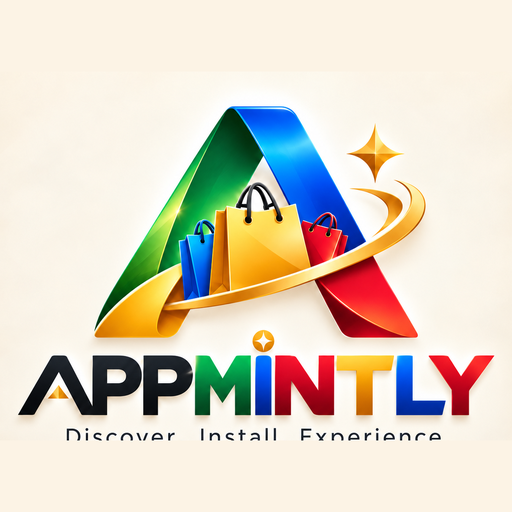
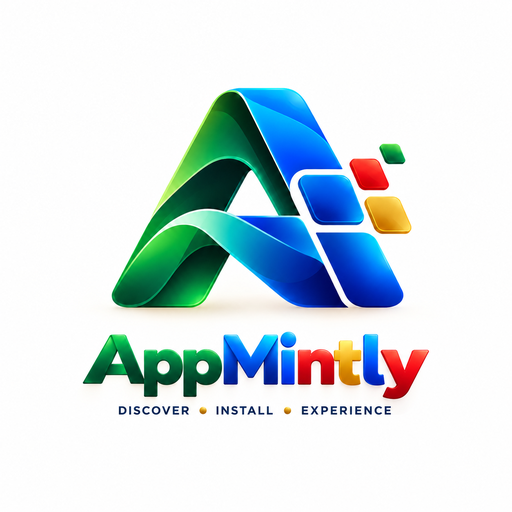
branding: official AppMintly artwork Phase 4 — complete lockup in every asset
Single source of truth: the supplied official artwork (1254x1254 PNG:
A-symbol with green/blue ribbon strokes + floating blue/red/amber
pixels, AppMintly wordmark, DISCOVER - INSTALL - EXPERIENCE tagline
with gold separators on the artwork's white background). Every asset is
a deterministic whole-image LANCZOS derivation — no crop, no recolor,
no emblem-only extraction, no hand-drawn substitute.

- brand/appmintly-logo-official.png: master, byte-identical to upload
- brand/appmintly-icon{,-192,-512,-1024}.png + logo-full (900) +
  logo-compact (900x851, whole artwork at native aspect): complete
  artwork replaces the old emblem-only marks
- icon-512 / icon-192 / icon-32 / icon-16 / apple-touch-icon (180):
  complete artwork; icon-512.png is the APK launcher build input
  (ICON_URL default unchanged) AND the catalog icon URL — content-only
  replacement, no record change
- favicon.ico: multi-resolution (16/32/48) from the complete artwork
- NEW public/icon-512-maskable.png: complete composition
  diagonal-fitted into the 66/108 safe circle (half-diagonal 155<=156)
  and wired as the manifest's dedicated 'maskable' entry
- AppMintlyLogo.tsx: wordmark label colors re-sampled from the
  artwork (App #028B3E green, Mintly #0047B7 blue); mark assets now
  render the complete lockup (no symbol-only contexts remain)
- lib/brand-assets.ts: appmintly registry pins refreshed + master,
  icon-512 and maskable entries added; pdfminifly/studyria pins untouched
[…]

diff --git a/tests/appmintly-brand-assets.test.ts b/tests/appmintly-brand-assets.test.ts
@@ -1,0 +1,122 @@
+/**
+ * AppMintly Phase 4 — official brand asset regression pins.
+ *
+ * Locks every replaced AppMintly branding asset to the exact bytes derived
+ * from the supplied official master artwork (complete composition: A-symbol
+ * with green/blue ribbon strokes + floating blue/red/amber pixels,
+ * "AppMintly" wordmark — App in green #028B3E, Mintly in blue #0047B7 —
+ * and the DISCOVER - INSTALL - EXPERIENCE tagline with gold separators, on
+ * the artwork's white background). Any revert to the old emblem-only
+ * artwork, or any accidental re-crop/recolor, changes a sha256 and fails
+ * this suite.
+ */
+import { readFileSync } from 'node:fs';
+import { createHash } from 'node:crypto';
+import { describe, expect, it } from 'vitest';
+import { REPO_BRAND_ASSETS } from '../lib/brand-assets';
+
+const sha = (p: string) => createHash('sha256').update(readFileSync(p)).digest('hex');
+const size = (p: string) => readFileSync(p).length;
+
+/** Exact sha256 of each Phase 4 replacement (whole-image derivatives). */
+const PINS: Record<string, string> = {
+  'public/brand/appmintly-logo-official.png':
[1 lines of base64/hex data omitted]
+  'public/brand/appmintly-icon.png':
[1 lines of base64/hex data omitted]
+  'public/brand/appmintly-icon-1024.png':
[1 lines of base64/hex data omitted]
+  'public/brand/appmintly-icon-512.png':
[1 lines of base64/hex data omitted]
+  'public/brand/appmintly-icon-192.png':
[1 lines of base64/hex data omitted]
+  'public/brand/appmintly-logo-full.png':
[1 lines of base64/hex data omitted]
+  'public/brand/appmintly-logo-compact.png':
[1 lines of base64/hex data omitted]
+  'public/icon-512.png':
[1 lines of base64/hex data omitted]
+  'public/icon-512-maskable.png':
[1 lines of base64/hex data omitted]
+  'public/icon-192.png':
[1 lines of base64/hex data omitted]
+  'public/icon-32.png':
[1 lines of base64/hex data omitted]
+  'public/icon-16.png':
[1 lines of base64/hex data omitted]
+  'public/apple-touch-icon.png':
[1 lines of base64/hex data omitted]
+  'public/favicon.ico':
[1 lines of base64/hex data omitted]
+};
+
+/** PNG IHDR dimensions without a decoder (width/height at bytes 16..24). */
+const pngSize = (p: string): [number, number] => {
+  const b = readFileSync(p);
+  expect(b.subarray(12, 16).toString('ascii')).toBe('IHDR');
+  return [b.readUInt32BE(16), b.readUInt32BE(20)];
+};
+
+describe('AppMintly official brand assets (Phase 4)', () => {
+  it('every Phase 4 replacement matches its pinned official-artwork bytes', () => {
+    for (const [f, pin] of Object.entries(PINS)) {
+      expect(sha(f), `pin for ${f}`).toBe(pin);
+    }
+  });
+
+  it('the master artwork is byte-identical to the supplied official upload', () => {
+    expect(sha('public/brand/appmintly-logo-official.png')).toBe(PINS['public/brand/appmintly-logo-official.png']);
+    expect(size('public/brand/appmintly-logo-official.png')).toBeGreaterThan(1_000_000);
+    expect(pngSize('public/brand/appmintly-logo-official.png')).toEqual([1254, 1254]);
+  });
+
+  it('square derivatives keep the whole 1:1 artwork (no emblem-only re-crop)', () => {
+    for (const [f, s] of [
+      ['public/brand/appmintly-icon.png', 700],
+      ['public/brand/appmintly-icon-1024.png', 1024],
+      ['public/brand/appmintly-icon-512.png', 512],
+      ['public/brand/appmintly-icon-192.png', 192],
+      ['public/brand/appmintly-logo-full.png', 900],
+      ['public/icon-512.png', 512],
+      ['public/icon-192.png', 192],
+      ['public/icon-32.png', 32],
+      ['public/icon-16.png', 16],
+      ['public/apple-touch-icon.png', 180],
+    ] as const) {
+      expect(pngSize(f), `${f} dimensions`).toEqual([s, s]);
+    }
+    // identical source means identical bytes: icon-512 and the /brand/ 512
+    // derivative must be the same file content (whole-image LANCZOS resize).
+    expect(sha('public/icon-512.png')).toBe(PINS['public/brand/appmintly-icon-512.png']);
+  });
+
+  it('maskable icon is a dedicated safe-zone asset wired into the manifest', () => {
+    const manifest = readFileSync('app/manifest.ts', 'utf-8');
+    expect(manifest).toContain('icon-512-maskable.png');
+    expect(manifest).toMatch(/purpose:\s*'maskable'/);
+    expect(pngSize('public/icon-512-maskable.png')).toEqual([512, 512]);
+  });
+
+  it('the launcher build input (icon-512.png) is the complete official artwork', () => {
+    // com.appmintly.appmintly APK builds bake launcher icons from
+    // https://appmintly.pages.dev/icon-512.png — its pin is asserted above;
+    // this check makes the wiring explicit so nobody repoints it silently.
+    const workflow = readFileSync('.github/workflows/release-android-apk.yml', 'utf-8');
+    expect(workflow).toContain('ICON_URL=https://appmintly.pages.dev/icon-512.png');
+  });
+
+  it('brand-assets registry pins match the actual deployed file bytes', () => {
+    for (const a of REPO_BRAND_ASSETS) {
+      const f = `public${a.path}`;
+      expect(sha(f), `registry pin for ${a.path}`).toBe(a.sha256);
+      expect(size(f), `registry size for ${a.path}`).toBe(a.size);
+    }
+  });
+
+  it('the wordmark label colors are sampled from the official artwork', () => {
+    const c = readFileSync('components/AppMintlyLogo.tsx', 'utf-8');
+    expect(c).toContain("#028B3E"); // App — artwork green
+    expect(c).toContain("#0047B7"); // Mintly — artwork blue
+    expect(c).not.toContain('#087A5B'); // old palette must be gone
+  });
+});

diff --git a/components/AppMintlyLogo.tsx b/components/AppMintlyLogo.tsx
@@ -6,7 +6,8 @@ import React from 'react';
  * Renders the exact supplied AppMintly logo artwork (public/brand/*.png).
  * The artwork itself is never redrawn, recolored, or recreated — only
  * technical crops/resizes of the same official asset are used:
- *   - appmintly-icon.png     -> square emblem-only crop (mark/icon contexts)
+ *   - appmintly-icon*.png     -> the complete official artwork (whole-image
+ *     derivatives; Phase 4 mandate: no symbol-only crops anywhere)
  *   - appmintly-logo-full.png -> the complete supplied lockup (hero/about/OG)
  *
  * For compact horizontal placements (navbar, footer) where the full square
@@ -41,22 +42,23 @@ const FULL_SRC = `${BASE_PATH}/brand/appmintly-logo-full.png`;
  * earlier two-tone system. Fixed brand colors in all placements and both
  * themes (logotype treatment); the logo/icon artwork images themselves
  * are never recolored.
- *   A p p = #087A5B Deep Emerald   M = #1248A8 Deep Sapphire
- *   i = #1565E8 Bright Blue         n = #E31E24 Brand Red
- *   t = #F4B400 Rich Gold           l = #1267E8 Royal Blue
- *   y = #E31E24 Brand Red
+ *   Phase 4 artwork wordmark: A p p = #028B3E (green)
+ *   M i n t l y = #0047B7 (blue) — sampled from the official master.
  */
 const WORDMARK = 'AppMintly';
+// Phase 4 — colors sampled per letter from the official artwork wordmark
+// (pixel medians of the letter runs): "App" green #028B3E, "Mintly" blue
+// #0047B7. This is a UI label only; the logo artwork itself is never redrawn.
 const WORDMARK_LETTER_COLORS = [
-  '#087A5B', // A — Deep Emerald
-  '#087A5B', // p — Deep Emerald
-  '#087A5B', // p — Deep Emerald
-  '#1248A8', // M — Deep Sapphire
-  '#1565E8', // i — Bright Blue
-  '#E31E24', // n — Brand Red
-  '#F4B400', // t — Rich Gold
-  '#1267E8', // l — Royal Blue
-  '#E31E24', // y — Brand Red
+  '#028B3E', // A — artwork "App" green
+  '#028B3E', // p — artwork "App" green
+  '#028B3E', // p — artwork "App" green
+  '#0047B7', // M — artwork "Mintly" blue
+  '#0047B7', // i — artwork "Mintly" blue
+  '#0047B7', // n — artwork "Mintly" blue
+  '#0047B7', // t — artwork "Mintly" blue
+  '#0047B7', // l — artwork "Mintly" blue
+  '#0047B7', // y — artwork "Mintly" blue
 ];
 
 interface AppMintlyWordmarkTextProps {

diff --git a/lib/brand-assets.ts b/lib/brand-assets.ts
@@ -22,10 +22,13 @@ export interface RepoBrandAsset {
 }
 
 export const REPO_BRAND_ASSETS: RepoBrandAsset[] = [
[14 lines of base64/hex data omitted]

diff --git a/app/manifest.ts b/app/manifest.ts
@@ -30,7 +30,11 @@ export default function manifest(): MetadataRoute.Manifest {
         purpose: 'any',
       },
       {
-        src: `${BASE}/icon-512.png`,
+        // Phase 4: dedicated maskable asset — the complete official artwork
+        // (symbol + AppMintly wordmark + DISCOVER - INSTALL - EXPERIENCE
+        // tagline) diagonal-fitted into the 66/108 safe circle, so mask
+        // cropping can never clip the wordmark or tagline.
+        src: `${BASE}/icon-512-maskable.png`,
         sizes: '512x512',
         type: 'image/png',
         purpose: 'maskable',
